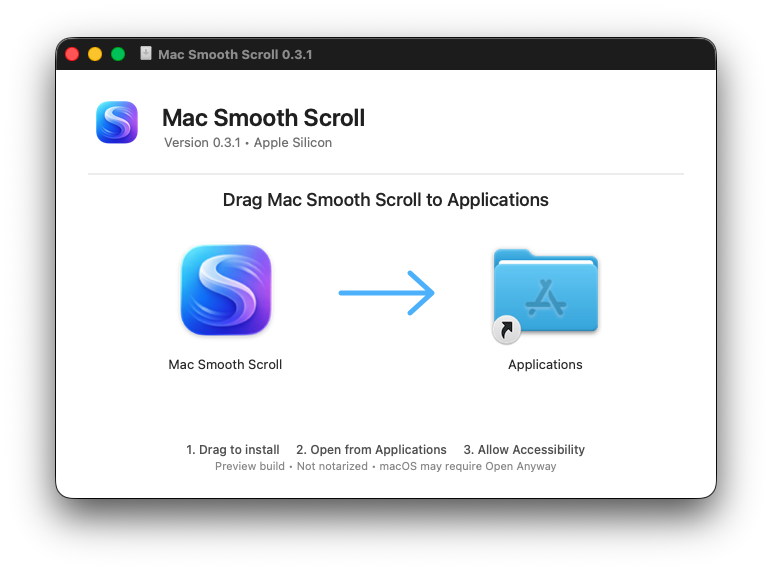
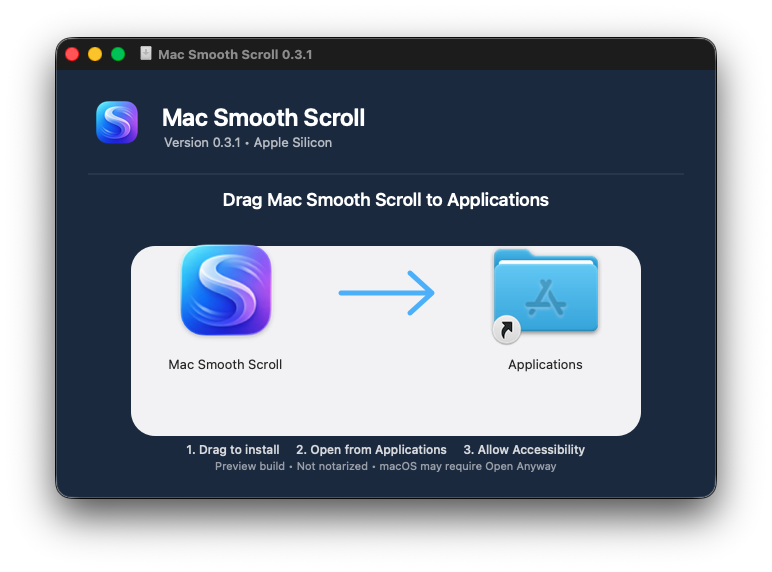
Match installer reference background color

diff --git a/Scripts/render-dmg-background.swift b/Scripts/render-dmg-background.swift
@@ -38,14 +38,29 @@ func drawText(
 
 image.lockFocus()
 
-NSColor.white.setFill()
+// Solid background sampled from the supplied installer color reference:
+// RGB 23, 35, 56 (#172338).
+NSColor(
+    calibratedRed: 23.0 / 255.0,
+    green: 35.0 / 255.0,
+    blue: 56.0 / 255.0,
+    alpha: 1
+).setFill()
 NSBezierPath(rect: NSRect(origin: .zero, size: size)).fill()
+
+let installPanel = NSBezierPath(
+    roundedRect: NSRect(x: 75, y: 64, width: 510, height: 190),
+    xRadius: 24,
+    yRadius: 24
+)
+NSColor.white.withAlphaComponent(0.94).setFill()
+installPanel.fill()
 
 let headerLine = NSBezierPath()
 headerLine.move(to: NSPoint(x: 32, y: 326))
 headerLine.line(to: NSPoint(x: 628, y: 326))
 headerLine.lineWidth = 1
-NSColor(calibratedWhite: 0.84, alpha: 1).setStroke()
+NSColor.white.withAlphaComponent(0.12).setStroke()
 headerLine.stroke()
 
 if let brandIcon = NSImage(contentsOf: iconURL) {
@@ -61,20 +76,20 @@ drawText(
     "Mac Smooth Scroll",
     in: NSRect(x: 106, y: 369, width: 360, height: 28),
     font: .systemFont(ofSize: 24, weight: .semibold),
-    color: NSColor(calibratedWhite: 0.10, alpha: 1)
+    color: .white
 )
 drawText(
     "Version \(version) • Apple Silicon",
     in: NSRect(x: 108, y: 346, width: 300, height: 20),
     font: .systemFont(ofSize: 13, weight: .regular),
-    color: NSColor(calibratedWhite: 0.40, alpha: 1)
+    color: NSColor.white.withAlphaComponent(0.68)
 )
 
 drawText(
     "Drag Mac Smooth Scroll to Applications",
     in: NSRect(x: 80, y: 285, width: 500, height: 26),
     font: .systemFont(ofSize: 18, weight: .medium),
-    color: NSColor(calibratedWhite: 0.12, alpha: 1),
+    color: .white,
     alignment: .center
 )
 
@@ -94,14 +109,14 @@ drawText(
     "1. Drag to install     2. Open from Applications     3. Allow Accessibility",
     in: NSRect(x: 42, y: 38, width: 576, height: 20),
     font: .systemFont(ofSize: 12, weight: .medium),
-    color: NSColor(calibratedWhite: 0.28, alpha: 1),
+    color: NSColor.white.withAlphaComponent(0.82),
     alignment: .center
 )
 drawText(
     "Preview build • Not notarized • macOS may require Open Anyway",
     in: NSRect(x: 42, y: 23, width: 576, height: 18),
     font: .systemFont(ofSize: 11, weight: .regular),
-    color: NSColor(calibratedWhite: 0.50, alpha: 1),
+    color: NSColor.white.withAlphaComponent(0.55),
     alignment: .center
 )
 
